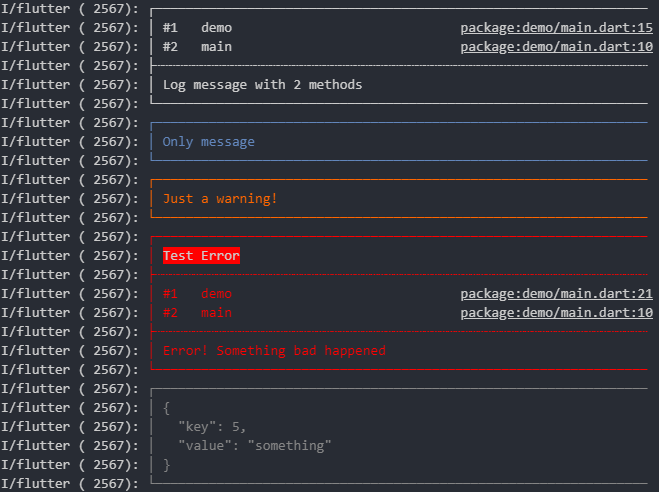
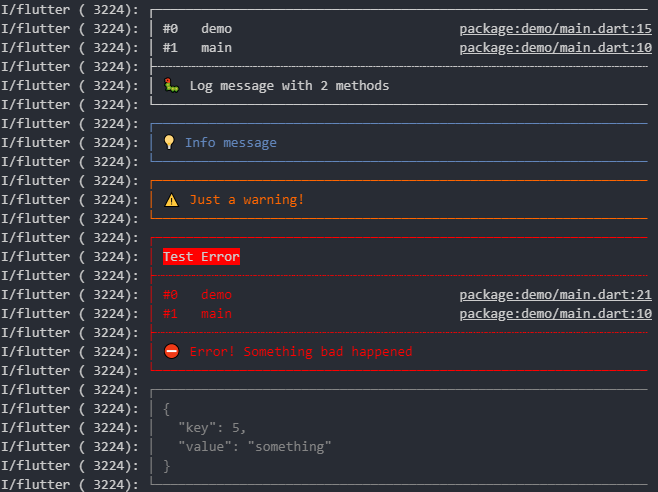
Add emojis

diff --git a/lib/src/logger.dart b/lib/src/logger.dart
@@ -12,24 +12,25 @@ enum Level {
   nothing,
 }
 
-/// `LogFilter` is called every time a new log message is sent and decides if
-/// it will be printed or canceled.
-///
-/// The default implementation is [Logger._defaultFilter].
-/// Every implementation should consider [Logger.level].
-typedef LogFilter = bool Function(
-  Level level,
-  dynamic message, [
-  dynamic error,
-  StackTrace stackTrace,
-]);
-
 /// An abstract handler of log messages.
 ///
 /// You can implement a `LogPrinter` from scratch or extend [PrettyPrinter].
 abstract class LogPrinter {
   /// Is called by the Logger for each log message.
   void log(Level level, dynamic message, dynamic error, StackTrace stackTrace);
+}
+
+/// An abstract handler of log messages.
+///
+/// You can implement your own `LogFilter` or use [DebugFilter].
+/// Every implementation should consider [Logger.level].
+abstract class LogFilter {
+  /// Is called every time a new log message is sent and decides if
+  /// it will be printed or canceled.
+  ///
+  /// Returns `true` if the message should be logged.
+  bool shouldLog(Level level, dynamic message,
+      [dynamic error, StackTrace stackTrace]);
 }
 
 /// Use instances of logger to send log messages to the [LogPrinter].
@@ -48,7 +49,7 @@ class Logger {
   /// [PrettyPrinter] and [_defaultFilter] will be used.
   Logger({LogPrinter printer, LogFilter filter})
       : _printer = printer ?? PrettyPrinter(),
-        _filter = filter ?? _defaultFilter;
+        _filter = filter ?? DebugFilter();
 
   /// Log message at level [Level.verbose].
   void v(dynamic message, [dynamic error, StackTrace stackTrace]) {
@@ -83,25 +84,8 @@ class Logger {
   /// Log message with [level].
   void log(Level level, dynamic message,
       [dynamic error, StackTrace stackTrace]) {
-    if (_filter(level, message, error, stackTrace)) {
+    if (_filter.shouldLog(level, message, error, stackTrace)) {
       _printer.log(level, message, error, stackTrace);
     }
-  }
-
-  /// Default implementation of [LogFilter]. All log
-  static bool _defaultFilter(
-    Level level,
-    dynamic message, [
-    dynamic error,
-    StackTrace stackTrace,
-  ]) {
-    var shouldLog = false;
-    assert(() {
-      if (level.index >= Logger.level.index) {
-        shouldLog = true;
-      }
-      return true;
-    }());
-    return shouldLog;
   }
 }

diff --git a/lib/src/pretty_printer.dart b/lib/src/pretty_printer.dart
@@ -29,12 +29,22 @@ class PrettyPrinter extends LogPrinter {
     Level.wtf: AnsiPen()..xterm(199),
   };
 
+  static final emojis = {
+    Level.verbose: '',
+    Level.debug: '🐛 ',
+    Level.info: '💡 ',
+    Level.warning: '⚠ ',
+    Level.error: '⛔ ',
+    Level.wtf: '👾 ',
+  };
+
   static final stackTraceRegex = RegExp(r'#[0-9]+[\s]+(.+) \(([^\s]+)\)');
   static const String indent = '  ';
 
   final int methodCount;
   final int errorMethodCount;
   final int lineLength;
+  final bool printEmojis;
 
   String topBorder = '';
   String middleBorder = '';
@@ -44,6 +54,7 @@ class PrettyPrinter extends LogPrinter {
     this.methodCount = 2,
     this.errorMethodCount = 8,
     this.lineLength = 120,
+    this.printEmojis = true,
   }) {
     var doubleDividerLine = StringBuffer();
     var singleDividerLine = StringBuffer();
@@ -92,7 +103,7 @@ class PrettyPrinter extends LogPrinter {
         if (match.group(2).startsWith('package:logger')) {
           continue;
         }
-        var newLine = ("#${count + 1}   ${match.group(1)} (${match.group(2)})");
+        var newLine = ("#$count   ${match.group(1)} (${match.group(2)})");
         formatted.add(newLine.replaceAll('<anonymous closure>', '()'));
         if (++count == methodCount) {
           break;
@@ -148,8 +159,10 @@ class PrettyPrinter extends LogPrinter {
       output.add(pen(middleBorder));
     }
 
+    var emoji = printEmojis ? emojis[level] : '';
     for (var line in message.split('\n')) {
-      output.add(pen('$verticalLine $line'));
+      output.add(pen('$verticalLine $emoji$line'));
+      emoji = '';
     }
     output.add(pen(bottomBorder));
 

diff --git a/lib/src/debug_filter.dart b/lib/src/debug_filter.dart
@@ -1,0 +1,19 @@
+part of logger;
+
+/// Default implementation of [LogFilter].
+///
+/// Shows all logs with `level >= Logger.level` while in debug mode. In release
+/// mode all logs are omitted.
+class DebugFilter extends LogFilter {
+  @override
+  bool shouldLog(Level level, message, [error, StackTrace stackTrace]) {
+    var shouldLog = false;
+    assert(() {
+      if (level.index >= Logger.level.index) {
+        shouldLog = true;
+      }
+      return true;
+    }());
+    return shouldLog;
+  }
+}

diff --git a/lib/logger.dart b/lib/logger.dart
@@ -4,5 +4,6 @@ library logger;
 import 'dart:convert';
 import 'package:ansicolor/ansicolor.dart';
 
+part 'src/debug_filter.dart';
 part 'src/pretty_printer.dart';
 part 'src/logger.dart';

diff --git a/README.md b/README.md
@@ -71,7 +71,8 @@ var logger = Logger(
   printer: PrettyPrinter(
     methodCount: 2, // number of method calls to be displayed
     errorMethodCount: 8, // number of method calls if stacktrace is provided
-    lineLength : 120 // width of the output
+    lineLength: 120, // width of the output
+    printEmojis: true, // Print an emoji for each log message
   ),
 )
 ```
@@ -93,13 +94,16 @@ If you created a cool `LogPrinter` which might be helpful to others, feel free t
 
 ## LogFilter
 
-The `LogFilter` filters which logs should be shown and which don't.
-The default implementation shows all logs with `level >= Logger.level` while in debug mode. In release mode all logs are omitted.
+The `LogFilter` decides which logs should be shown and which don't.
+The default implementation (`DebugFilter`) shows all logs with `level >= Logger.level` while in debug mode. In release mode all logs are omitted.
 
 You can create your own `LogFilter` like this:
 ```dart
-var filter = (Level level, dynamic message, dynamic error, StackTrace stackTrace) {
+class MyFilter extends LogFilter {
+  @override
+  bool shouldLog(Level level, dynamic message, [dynamic error, StackTrace stackTrace]) {
     return true;
+  }
 }
 ```
 This will show all logs even in release mode. (**NOT** a good idea)

diff --git a/CHANGELOG.md b/CHANGELOG.md
@@ -1,2 +1,6 @@
+## 0.5.0
+- Add emojis
+- `LogFilter` is a class now
+
 ## 0.4.0
 - First version of the new logger
